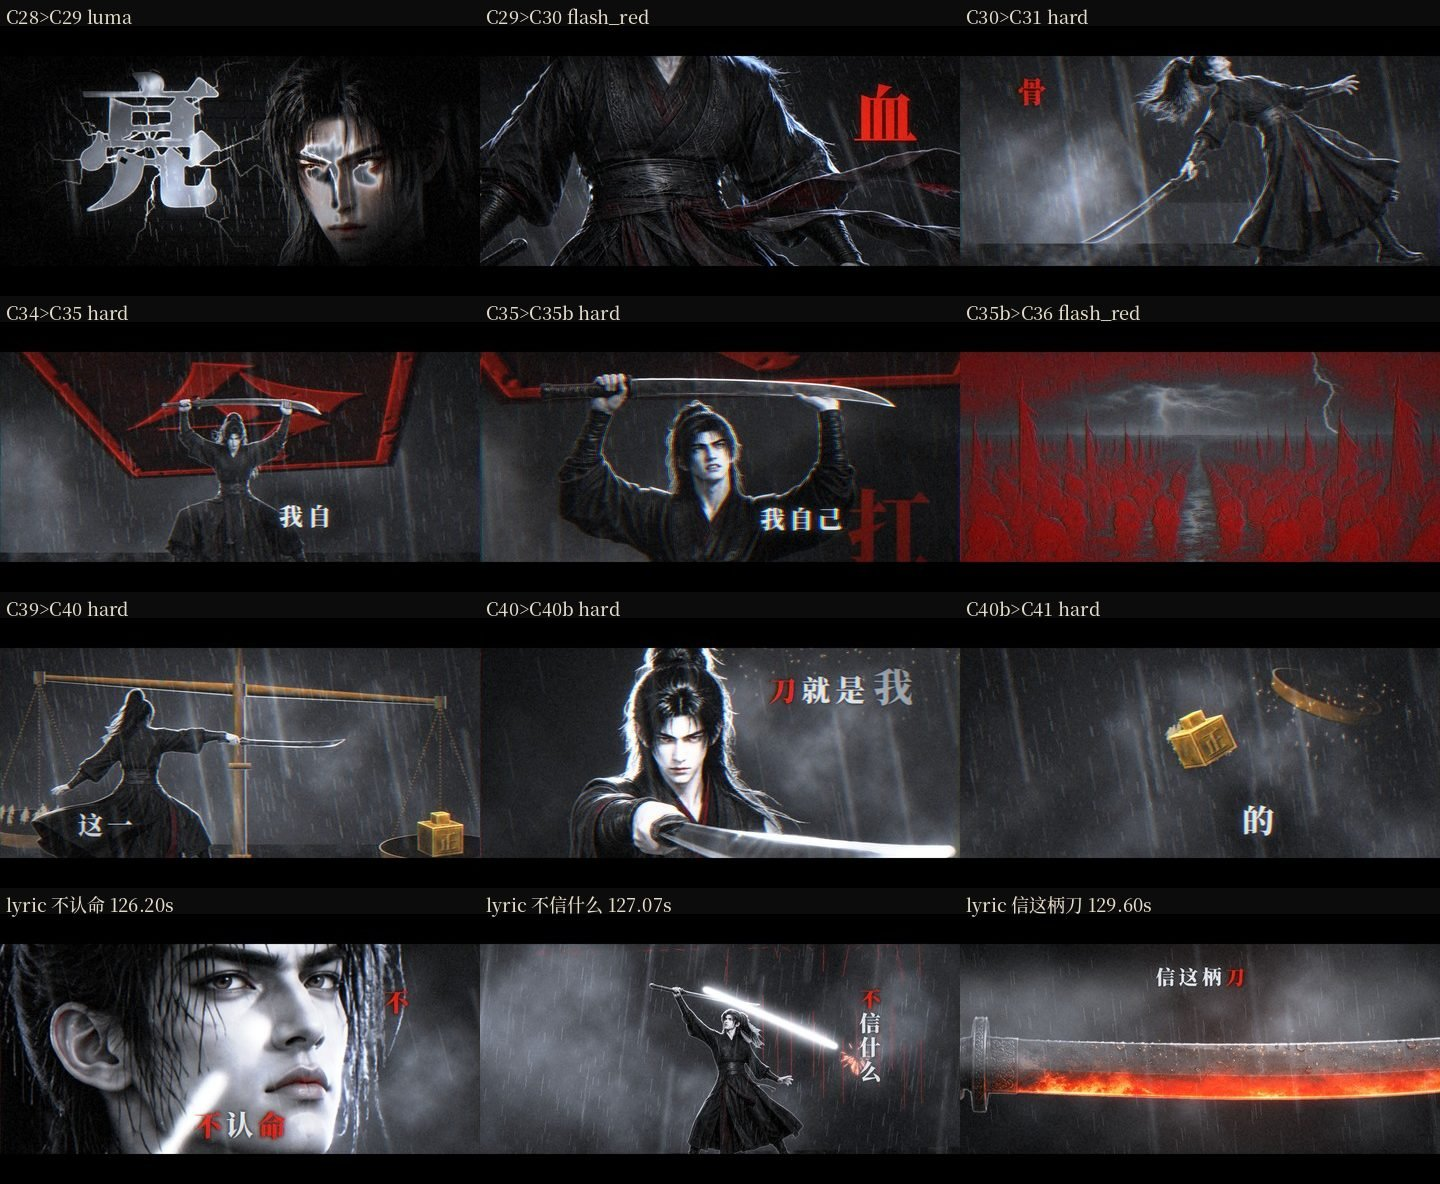
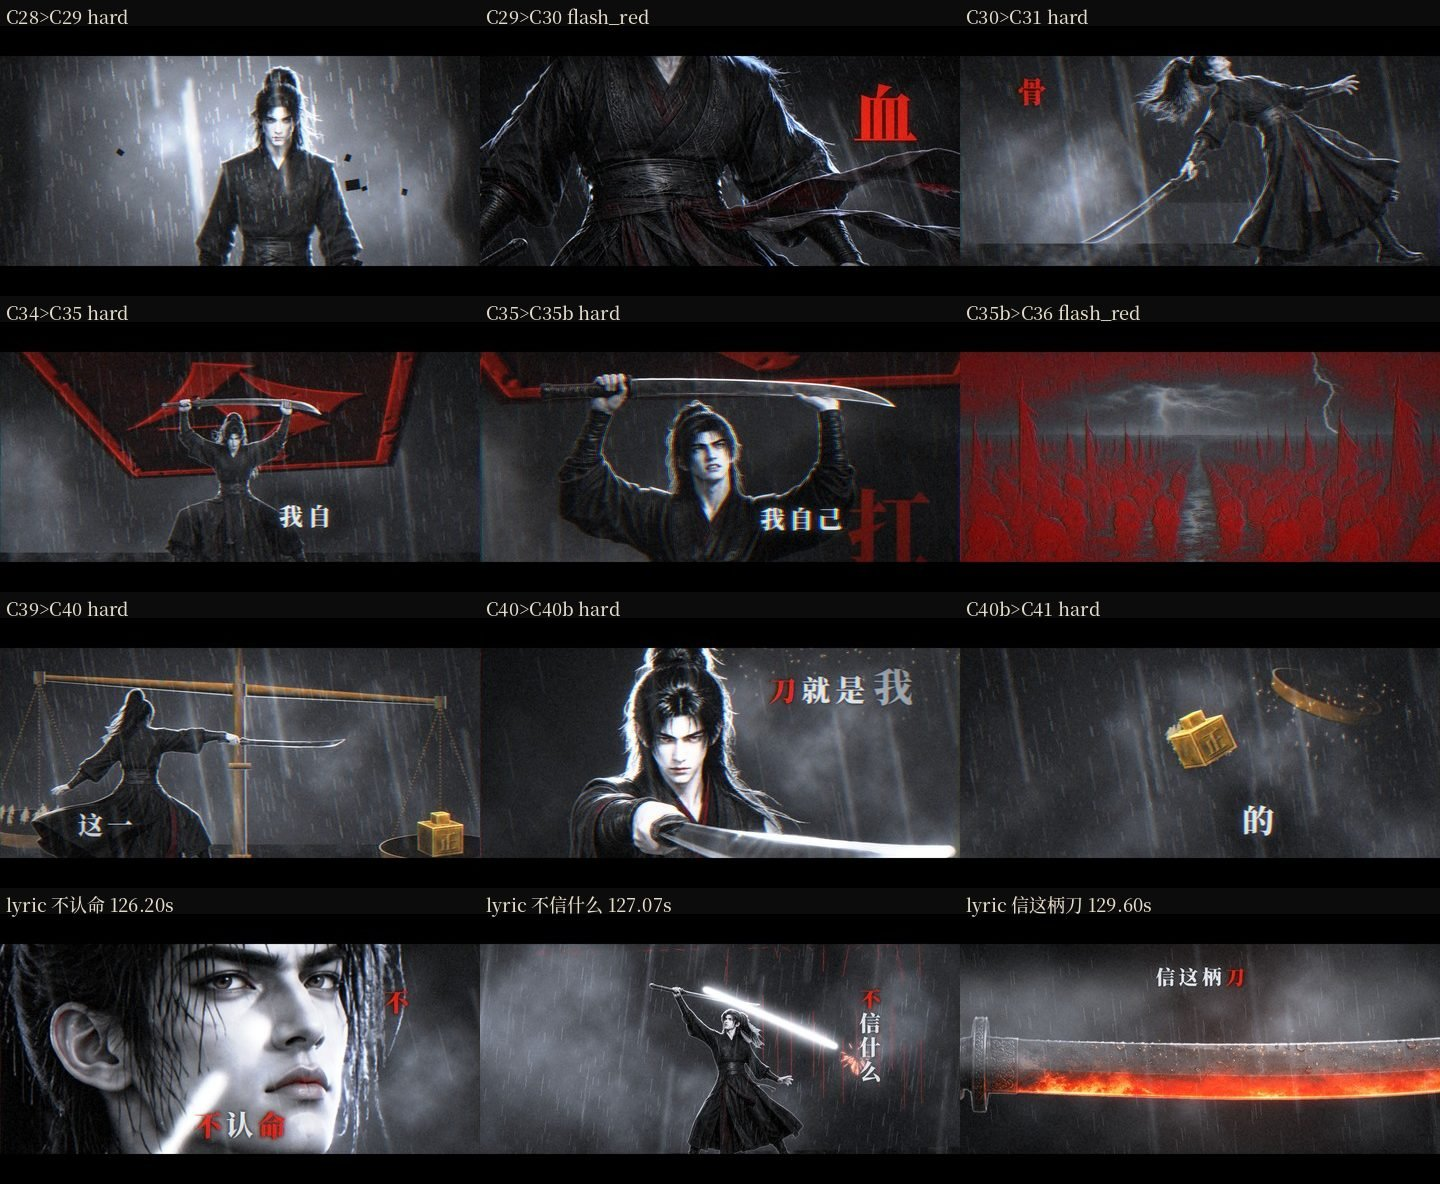
自动同步 11-09 11:22

Changed region(s): [[0.0, 0.0, 0.4062, 0.25], [0.5625, 0.125, 0.625, 0.1875], [0.5, 0.1562, 0.5312, 0.1875]]

diff --git a/units/sec_c_pre2_chorus2.py b/units/sec_c_pre2_chorus2.py
@@ -234,8 +234,15 @@ class C02(Shot):
         fr = fog(fr, t, 3, density=0.35, y0=200, y1=900, color=(0.30, 0.22, 0.15), speed=(12, -4))
         hand_y = 70 - oy * 0.6
         tips = [(830, hand_y + 300), (900, hand_y + 330), (980, hand_y + 340), (1060, hand_y + 320), (1120, hand_y + 280), (790, hand_y + 250)]  # 第四棒：字 72→104px、挂低、画在手前
-        fr, _ = put(fr, t, 'S062/puppeteer', 960, hand_y, 640, anchor='src', src=(0.5, 0.06), rim=WARM, rim_amt=2.2, rim_dir=(0, -1),
+        bg0 = fr.copy()
+        fr, A0 = put(fr, t, 'S062/puppeteer', 960, hand_y, 640, anchor='src', src=(0.5, 0.06), rim=WARM, rim_amt=2.2, rim_dir=(0, -1),
                     expo=0.8, sat=0.4, tint=(1.0, 0.92, 0.82), wind=2)
+        # 第四棒：袖口精灵底边是平切——底部 150px 渐隐进烛光暗部
+        rows = np.where(A0.max(1) > 0.3)[0] if A0 is not None and A0.ndim == 2 else []
+        if len(rows):
+            yb = rows[-1]; yy = np.arange(H, dtype=np.float32)[:, None, None]
+            g = np.clip((yy - (yb - 160)) / 150, 0, 1)
+            fr = fr * (1 - g) + bg0 * g
         s = Sent(28, [5, 6, 7, 8, 9, 10], 0, 0, size=70, mode='type', red='', glitch='剧本')
         for i, x in enumerate(self.XS):
             ti = s.tin[i]
@@ -1710,7 +1717,7 @@ CUTS = {
     'C26': ('shatter', 0.0, 0.22, dict(center=(1065, 560))),
     'C27': ('luma', 0.08, 0.14, {}),                                     # 崩墙后的亮天 → 缺口亮天（亮处匹配）
     'C28': ('push', 0.06, 0.10, dict(center=(960, 480), z=0.5)),         # 推进缺口里的光
-    'C29': ('luma', 0.06, 0.12, {}),                                     # 「亮」字形光 → 缺口逆光（亮处匹配）
+    'C29': ('hard', 0, 0, {}),                                           # 第四棒：luma 会在 C28 亮眼处开洞（像面具）→ 落拍硬切冲击
     'C30': ('flash_red', 0.0, 0.14, {}),
     'C31': ('hard', 0, 0, {}),
     'C32': ('split_slide', 0.06, 0.12, dict(angle=90.0)),                # 掌风压下：画面上下错开
